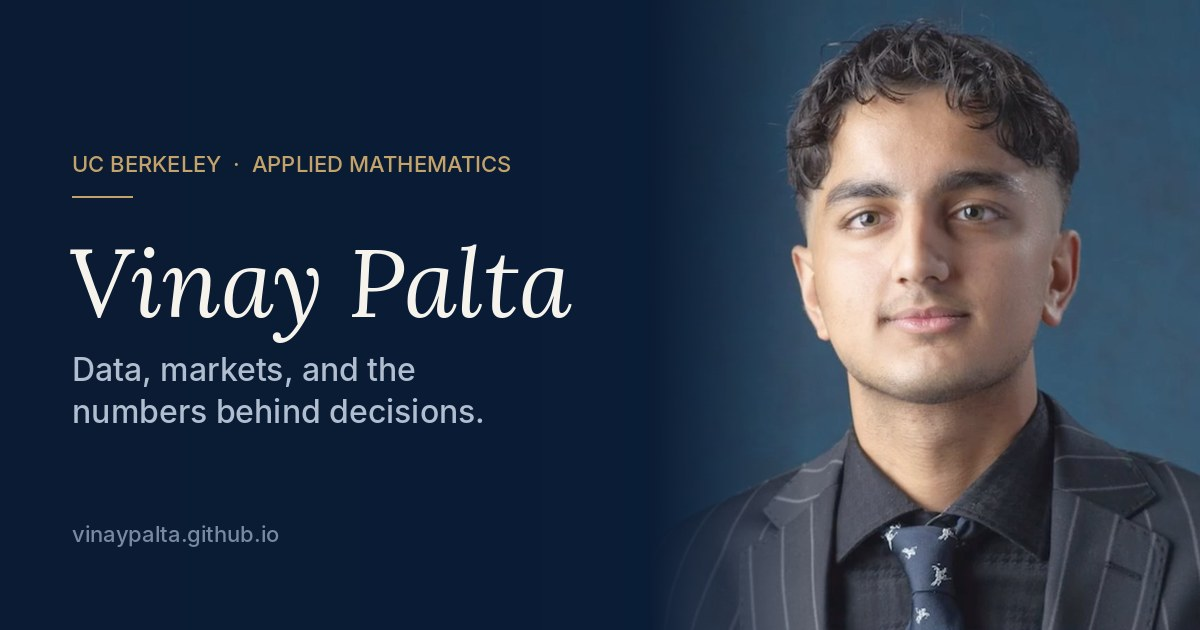
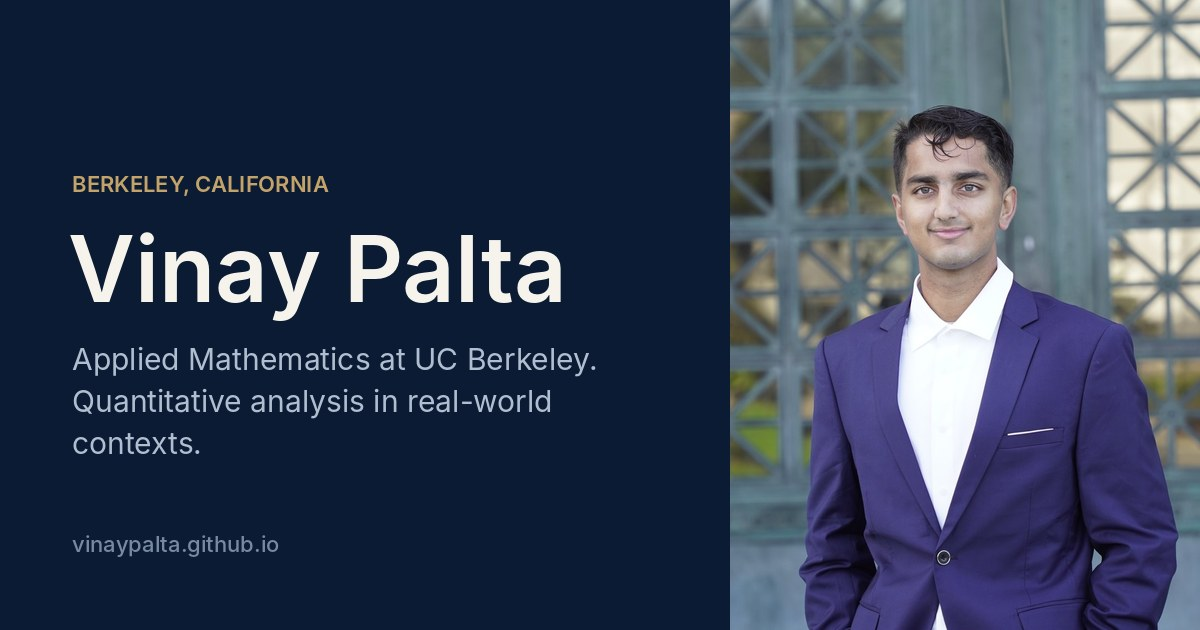
New headshot, sans-serif font, solid navy

diff --git a/index.html b/index.html
@@ -31,9 +31,9 @@
 
     <link rel="preconnect" href="https://fonts.googleapis.com">
     <link rel="preconnect" href="https://fonts.gstatic.com" crossorigin>
-    <link href="https://fonts.googleapis.com/css2?family=Inter:wght@400;500;600&family=Newsreader:ital,opsz,wght@0,6..72,400;0,6..72,500;1,6..72,400&display=swap" rel="stylesheet">
+    <link href="https://fonts.googleapis.com/css2?family=Inter:ital,opsz,wght@0,14..32,400..700;1,14..32,400..600&display=swap" rel="stylesheet">
     <link rel="preload" as="image" href="images/headshot.webp" type="image/webp">
-    <link rel="stylesheet" href="style.css?v=24">
+    <link rel="stylesheet" href="style.css?v=25">
 
     <script type="application/ld+json">
     {
@@ -75,7 +75,6 @@
     <main id="main">
       <!-- HERO -->
       <section id="top" class="hero">
-        <div class="hero-grid-lines" aria-hidden="true"></div>
         <div class="wrap hero-inner">
           <div class="hero-copy">
             <p class="eyebrow hero-line" style="--d:0">Berkeley, California</p>
@@ -92,7 +91,7 @@
             <div class="portrait-frame">
               <picture>
                 <source srcset="images/headshot.webp" type="image/webp">
-                <img src="images/headshot.jpg" alt="Portrait of Vinay Palta" width="800" height="913" fetchpriority="high">
+                <img src="images/headshot.jpg" alt="Portrait of Vinay Palta" width="1000" height="1141" fetchpriority="high">
               </picture>
             </div>
             <figcaption><span>Vinay Palta</span><span>Class of 2029</span></figcaption>
@@ -106,7 +105,7 @@
         <div class="wrap figures-grid">
           <div class="figure reveal">
             <p class="figure-num"><span data-count="1" data-suffix="B+">1B+</span></p>
-            <p class="figure-label">Data points in the datasets I analyze</p>
+            <p class="figure-label">Data points in the databases I&rsquo;ve analyzed</p>
           </div>
           <div class="figure reveal">
             <p class="figure-num"><span data-count="500" data-suffix="K+">500K+</span></p>
@@ -117,8 +116,8 @@
             <p class="figure-label">Verified computer-vision annotations</p>
           </div>
           <div class="figure reveal">
-            <p class="figure-num"><span data-count="300" data-suffix="K+">300K+</span></p>
-            <p class="figure-label">Views on my tennis &amp; pickleball content</p>
+            <p class="figure-num"><span data-count="1" data-suffix="M+">1M+</span></p>
+            <p class="figure-label">Views on my social media pages</p>
           </div>
         </div>
       </section>
@@ -218,6 +217,7 @@
                 <ul class="highlights">
                   <li><span class="hl-k">The finding</span><span>PCA and clustering in R separated diseased fish from healthy ones; five metabolites, N-acetyl-L-aspartate among them, drove the difference.</span></li>
                   <li><span class="hl-k">The write-up</span><span>Wrote the research abstract as primary author and presented it to Columbia's exposomics lab and outside collaborators.</span></li>
+                  <li><span class="hl-k">Coursework</span><span>Took Calculus III (Multivariable Calculus) as a visiting student in summer 2024, earning an A+ (4.33 GPA).</span></li>
                 </ul>
               </div>
             </article>

diff --git a/style.css b/style.css
@@ -21,7 +21,7 @@
   --on-navy: #f4f1ea;
   --on-navy-soft: #aebbd0;
 
-  --font-display: "Newsreader", "Iowan Old Style", Georgia, serif;
+  --font-display: var(--font-body);
   --font-body: "Inter", system-ui, -apple-system, "Segoe UI", sans-serif;
 
   --wrap: 1180px;
@@ -411,3 +411,20 @@ h2 { margin: 0; font: 400 clamp(38px, 5vw, 64px)/1.05 var(--font-display); lette
   .phones-inline .phone-screen { transform: scale(.84); transform-origin: top center; margin: 0 -29px -115px; }
   .phones-inline .phone:hover .phone-screen { transform: scale(.84); }
 }
+
+/* ---------- Oct 12: sans-serif, solid navy, clean portrait ---------- */
+.hero, .contact { background: var(--navy-900); }
+.hero-grid-lines { display: none; }
+.eyebrow::before { display: none; }
+.portrait-frame::before { display: none; }
+.hero h1 { font-weight: 600; letter-spacing: -0.04em; }
+.hero h1 em { font-weight: 500; }
+h2, .contact h2 { font-weight: 600; letter-spacing: -0.035em; }
+.figure-num { font-weight: 500; letter-spacing: -0.03em; }
+.org h3, .edu-main h3 { font-weight: 600; letter-spacing: -0.02em; }
+.story { font-size: clamp(17px, 1.5vw, 19px); line-height: 1.6; color: var(--ink-soft); }
+.kicker span { font-size: 13px; font-weight: 600; }
+.monogram-mark { font-weight: 600; font-size: 13px; }
+.portrait-frame img { aspect-ratio: 1000 / 1141; }
+@media (max-width: 820px) { nav a { font-weight: 500; font-size: 28px; letter-spacing: -0.02em; } }
+.hero h1 { font-size: clamp(48px, 7vw, 100px); white-space: nowrap; }

diff --git a/404.html b/404.html
@@ -8,12 +8,11 @@
     <link rel="icon" href="/favicon.svg" type="image/svg+xml">
     <link rel="preconnect" href="https://fonts.googleapis.com">
     <link rel="preconnect" href="https://fonts.gstatic.com" crossorigin>
-    <link href="https://fonts.googleapis.com/css2?family=Inter:wght@400;500;600&family=Newsreader:ital,opsz,wght@0,6..72,400;1,6..72,400&display=swap" rel="stylesheet">
-    <link rel="stylesheet" href="/style.css?v=20">
+    <link href="https://fonts.googleapis.com/css2?family=Inter:ital,opsz,wght@0,14..32,400..700;1,14..32,400..600&display=swap" rel="stylesheet">
+    <link rel="stylesheet" href="/style.css?v=25">
   </head>
   <body class="is-loaded">
     <section class="hero" style="min-height:100svh">
-      <div class="hero-grid-lines" aria-hidden="true"></div>
       <div class="wrap">
         <p class="eyebrow hero-line" style="--d:0">Error 404</p>
         <h1 class="hero-line" style="--d:1">Off the <em>books.</em></h1>
